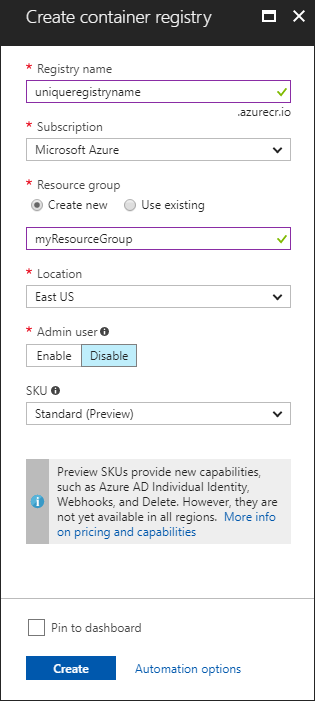
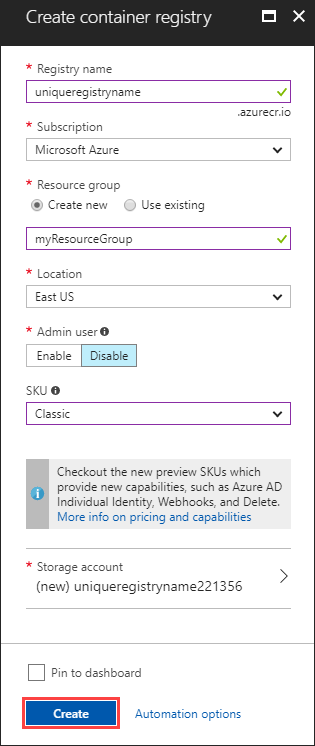
[acr] portal quickstart

diff --git a/articles/container-registry/container-registry-get-started-portal.md b/articles/container-registry/container-registry-get-started-portal.md
@@ -28,54 +28,78 @@ If you don't have an Azure subscription, create a [free account](https://azure.m
 
 ## Log in to Azure
 
-Log in to the Azure portal at http://portal.azure.com.
+Select the **New** > **Containers** > **Azure Container Registry**.
 
-## Create a container registry
+![Creating a container registry in the Azure portal][qs-portal-01]
 
-1. Select the **New** > **Containers** > **Azure Container Registry**.
+Enter the following values in the **Registry name** and **Resource group** text boxes, and select the specified **SKU** from the drop-down. Leave the other values at their defaults, then click **Create**.
 
-   ![Creating a container registry in the Azure portal][qs-portal-01]
+* **Registry name**: A unique name for your container registry. The registry name must be unique within Azure, and contain 5-50 alphanumeric characters.
+* **Resource group**: `myResourceGroup`
+* **SKU**: Classic
 
-1. Select **Create** to start the configuration of your new container registry.
+   Azure Container Registry is available in several different SKUs. When deploying an ACR instance, choose a SKU that matches your image management needs. In this Quickstart, we select Classic due to its availability in all regions.
 
-   ![Creating a container registry in the Azure portal][qs-portal-02]
+   | SKU | Description | Notes |
+   |---|---|---|
+   | Classic | Limited capability and images stored in an Azure Storage account. Avaliable in all regions. |
+   | Basic | Advanced capabilities such as managed storage and Webhooks. Preview in limited regions. |
+   | Standard | Advanced capabilities such as managed storage and Webhooks. Preview in limited regions. |
+   | Premium | Advanced capabilities such as managed storage and Webhooks. Preview in limited regions.
 
-1. Enter the following values in the **Registry name** and **Resource group** text boxes. Leave the other values at their defaults, then click **Create**.
+![Creating a container registry in the Azure portal][qs-portal-03]
 
-   * **Registry name**: A unique name for your container registry. The registry name must be unique within Azure, and contain 5-50 alphanumeric characters.
-   * **Resource group**: `myResourceGroup`
+When the **Deployment succeeded** message appears, select the container registry in the portal, then select **Access keys**.
 
-   ![Creating a container registry in the Azure portal][qs-portal-03]
+![Creating a container registry in the Azure portal][qs-portal-05]
 
-1. When the **Deployment succeeded** message appears, select the Container Registry in the portal, then select **Access keys**.
+Under **Admin user**, select **Enabled**. Take note of the following values:
 
-   ![Creating a container registry in the Azure portal][qs-portal-05]
+* Login server
+* Username
+* password
 
-1. Under **Admin user**, select **Enabled**. Take note of the following values:
+You use these values in the following steps while working with your registry with the Docker CLI.
 
-   * Login server
-   * Username
-   * password
+![Creating a container registry in the Azure portal][qs-portal-06]
 
-   You use these values in the following steps while working with your registry with the Docker CLI.
+## Log in to ACR
 
-   ![Creating a container registry in the Azure portal][qs-portal-06]
+Before pushing and pulling container images, you must log in to the ACR instance. To do so, use the [docker login](https://docs.docker.com/engine/reference/commandline/login/) command. Replace the username, password, and login server values with those you noted from in the previous step.
 
-## Pull an image from Docker hub
+```
+docker login --username <username> --password <password> <login server>
+```
 
-In order to push an image to your registry, you need to have one on your local machine.
+The command returns a 'Login Succeeded' message once completed.
 
-## Push the image to Azure Container Registry
+## Push image to ACR
 
-Now that you've pulled an image from Docker hub, you're ready to push it to your Azure Container Registry.
+To push an image to your Azure Container Registry, you must first have an image. If needed, run the following command to pull an existing image from Docker Hub.
 
-1. Tag image
-1. Push image
+```bash
+docker pull microsoft/aci-helloworld
+```
 
-## List the images in your container registry
+Before you push the image to your registry, you must tag the image with the ACR login server name. Tag the image using the [docker tag](https://docs.docker.com/engine/reference/commandline/tag/) command. Replace *acrLoginServer* with the login server name of your ACR instance.
 
-1. List images
-1. List tags
+```
+docker tag microsoft/aci-helloworld:v1 acrLoginServer/aci-helloworld:v1
+```
+
+Finally, use [docker push](https://docs.docker.com/engine/reference/commandline/push/) to push the image to the ACR instance. Replace *acrLoginServer* with the login server name of your ACR instance.
+
+```
+docker push acrLoginServer/aci-helloworld:v1
+```
+
+## List container images
+
+To list the images in your ACR instance, navigate to your registry in the portal and select **Repositories**, then the repository you just created with `docker push`. The images in the repository appear under **TAGS**.
+
+In this example, we select the **aci-helloworld** repository.
+
+![Creating a container registry in the Azure portal][qs-portal-09]
 
 ## Clean up resources
 
